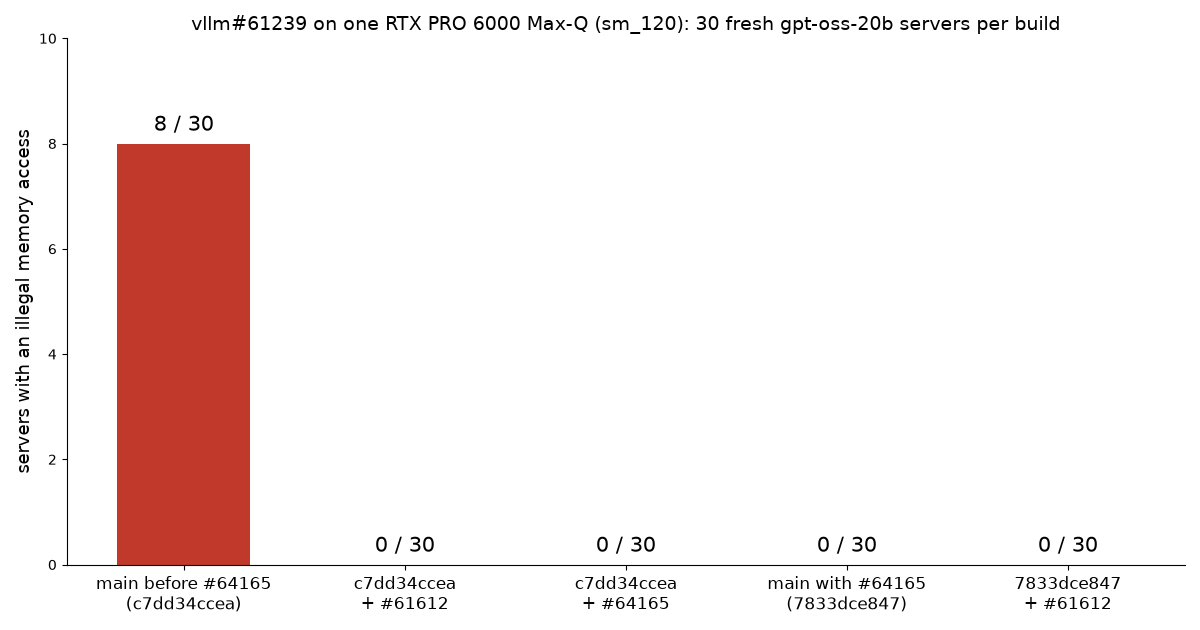
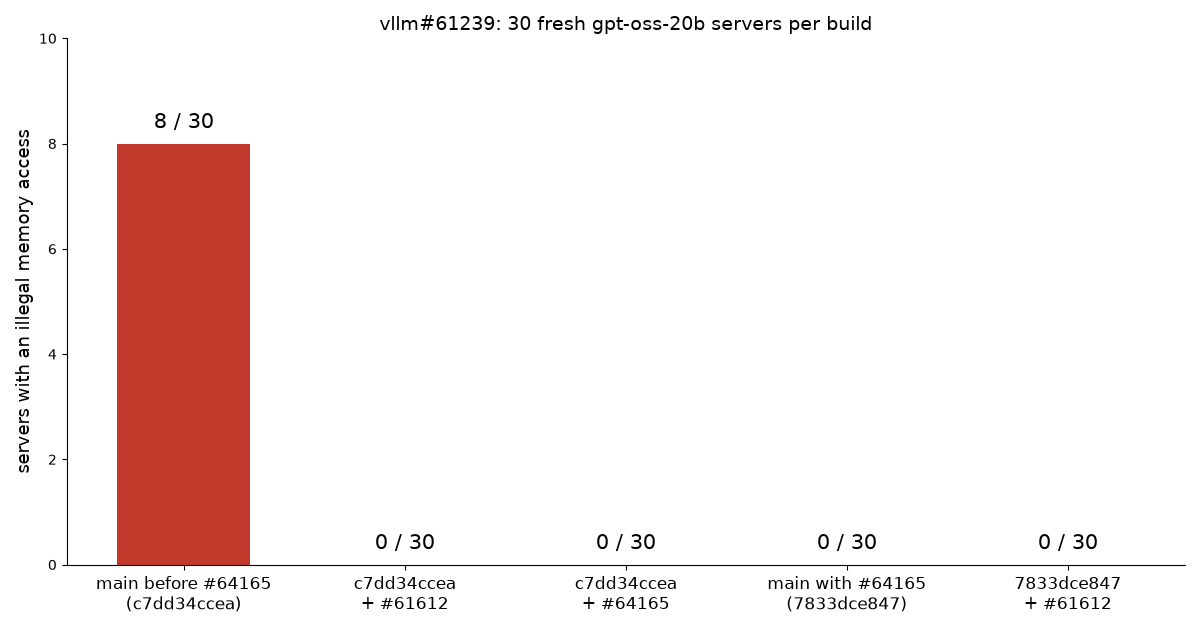
Name the hardware as a Blackwell workstation GPU; drop SM120 from JSON-LD, llms.txt and patches intro

diff --git a/overrides/partials/seo.html b/overrides/partials/seo.html
@@ -71,7 +71,7 @@
         "name": "Wei Cheng (Wayne) Chiu",
         "alternateName": ["Wayne Chiu", "邱偉誠"],
         "jobTitle": "Field Application Engineer",
-        "description": "LLM inference software engineer in Taipei: performance analysis and optimization, CUDA kernels, TensorRT-LLM, vLLM, SGLang and FlashInfer. {{ config.extra.upstream.merged }} merged upstream fixes, incl. Blackwell SM120 and NVFP4.",
+        "description": "LLM inference software engineer in Taipei: performance analysis and optimization, CUDA kernels, TensorRT-LLM, vLLM, SGLang and FlashInfer. {{ config.extra.upstream.merged }} merged upstream fixes, incl. Blackwell and NVFP4.",
         "worksFor": { "@type": "Organization", "name": "Taiwan AILabs", "url": "https://ailabs.tw/" },
         "homeLocation": { "@type": "Place", "address": { "@type": "PostalAddress", "addressLocality": "Taipei", "addressCountry": "TW" } },
         "url": "https://wayne.is-a.dev/",

diff --git a/docs/blog/vllm-flashinfer-async-race.md b/docs/blog/vllm-flashinfer-async-race.md
@@ -1,5 +1,5 @@
 ---
-description: "150 vLLM servers across five builds on one RTX PRO 6000 to find which patch clears the FlashInfer illegal memory access in vllm#61239, with paragraph-by-paragraph Traditional Chinese."
+description: "150 vLLM servers across five builds on one Blackwell workstation GPU to find which patch clears the FlashInfer illegal memory access in vllm#61239, with paragraph-by-paragraph Traditional Chinese."
 date: "2026-11-16"
 language:
   - en
@@ -28,9 +28,9 @@ vllm#61239 回報的是在 async scheduling 加 FlashInfer、而且沒開 specul
 
 ## Setup｜測試設定
 
-One RTX PRO 6000 Blackwell Max-Q (sm_120) under WSL2, `openai/gpt-oss-20b` (sliding and full attention, no GDN or linear-attention layers), FlashInfer picked automatically, async scheduling on, no spec decode, no prefix caching, `--max-num-batched-tokens 8192`. Every server starts fresh and runs GSM8K: 1,319 chat requests at 64 concurrent. Five builds, 30 servers each, run interleaved and reshuffled every round, so a bad hour on the box lands on every build alike.
+One Blackwell workstation GPU under WSL2, `openai/gpt-oss-20b` (sliding and full attention, no GDN or linear-attention layers), FlashInfer picked automatically, async scheduling on, no spec decode, no prefix caching, `--max-num-batched-tokens 8192`. Every server starts fresh and runs GSM8K: 1,319 chat requests at 64 concurrent. Five builds, 30 servers each, run interleaved and reshuffled every round, so a bad hour on the box lands on every build alike.
 
-一張 RTX PRO 6000 Blackwell Max-Q (sm_120)，跑在 WSL2 上，模型是 `openai/gpt-oss-20b` (sliding 和 full attention，沒有 GDN 或 linear attention 層)，FlashInfer 讓 vLLM 自己選，開 async scheduling，不開 spec decode 也不開 prefix caching，`--max-num-batched-tokens 8192`。每個 server 都是重新啟動，跑一輪 GSM8K：1,319 個 chat request，64 個同時送。五個版本各跑 30 個 server，交錯執行、每輪重新洗牌，這樣機器狀況不好的那段時間會平均落在每個版本上。
+一張 Blackwell 工作站 GPU，跑在 WSL2 上，模型是 `openai/gpt-oss-20b` (sliding 和 full attention，沒有 GDN 或 linear attention 層)，FlashInfer 讓 vLLM 自己選，開 async scheduling，不開 spec decode 也不開 prefix caching，`--max-num-batched-tokens 8192`。每個 server 都是重新啟動，跑一輪 GSM8K：1,319 個 chat request，64 個同時送。五個版本各跑 30 個 server，交錯執行、每輪重新洗牌，這樣機器狀況不好的那段時間會平均落在每個版本上。
 { .pb-translation lang=zh-Hant }
 
 | vLLM | servers | illegal memory access | GSM8K wall time (median, no fault) |

diff --git a/docs/blog/index.md b/docs/blog/index.md
@@ -22,7 +22,7 @@ measurement or source that backs it sits right beside it.
 <span class="pb-post-body">
 <span class="pb-post-title">Which patch cleared the FlashInfer fault on my card｜是哪個 patch 修掉了 FlashInfer 的錯誤</span>
 <span class="pb-post-tags"><span class="pb-tag pb-tag-blue">Serving</span><span class="pb-tag pb-tag-red">CUDA</span></span>
-<span class="pb-post-excerpt">一張 RTX PRO 6000 上五個版本各跑 30 個 server，沒修正的 main 錯 8 次，加上 #64165 之後 0 次。</span>
+<span class="pb-post-excerpt">一張 Blackwell 工作站 GPU 上，五個版本各跑 30 個 server，沒修正的 main 錯 8 次，加上 #64165 之後 0 次。</span>
 <span class="pb-post-date">2026-11-16</span>
 </span>
 </a>

diff --git a/docs/patches.md b/docs/patches.md
@@ -13,7 +13,7 @@ It rebuilds from GitHub every 10 minutes and is also an <a class="pb-pr-wall-rss
 </p>
 
 This page picks out the ones worth reading, by project. Two themes keep coming
-up. One is getting early consumer Blackwell (SM120 / SM121) to work across the
+up. One is getting early consumer Blackwell to work across the
 stack: CUTLASS and FlashInfer kernels, the vLLM and SGLang engines, and Dynamo and
 TensorRT-LLM disaggregated serving. The other is correctness bugs, where the code
 passes its tests and still computes the wrong answer.
